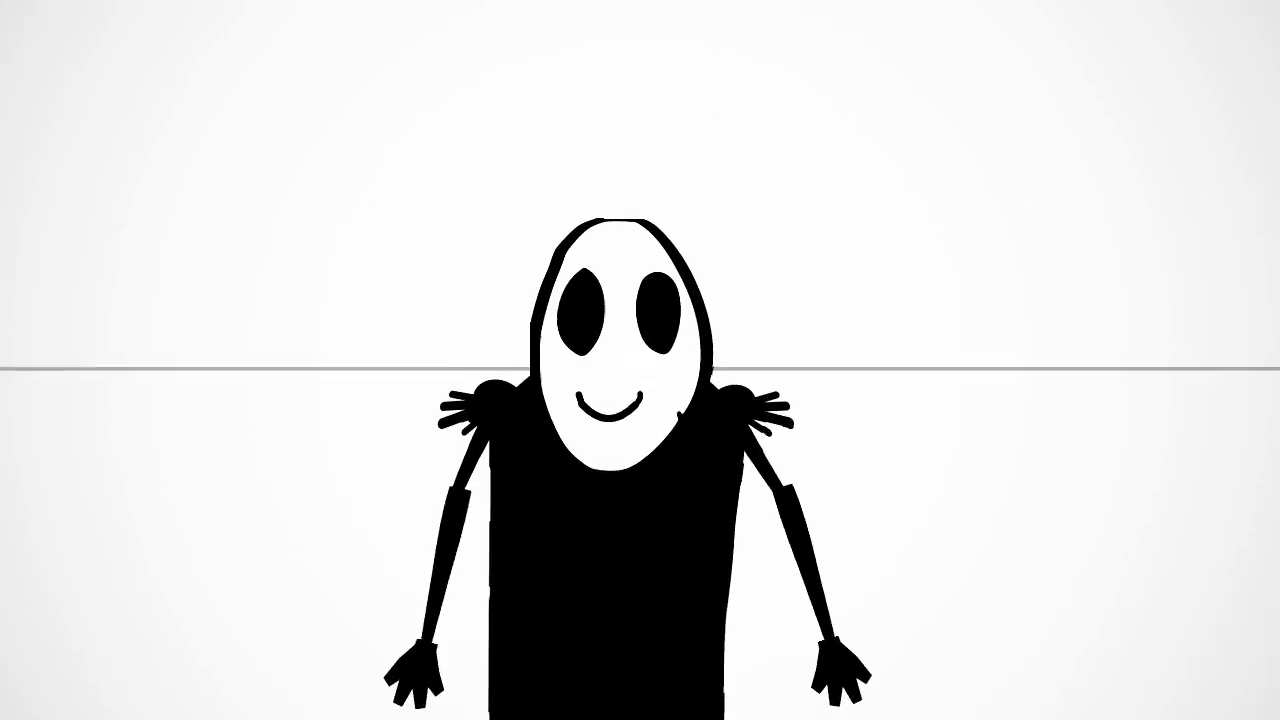
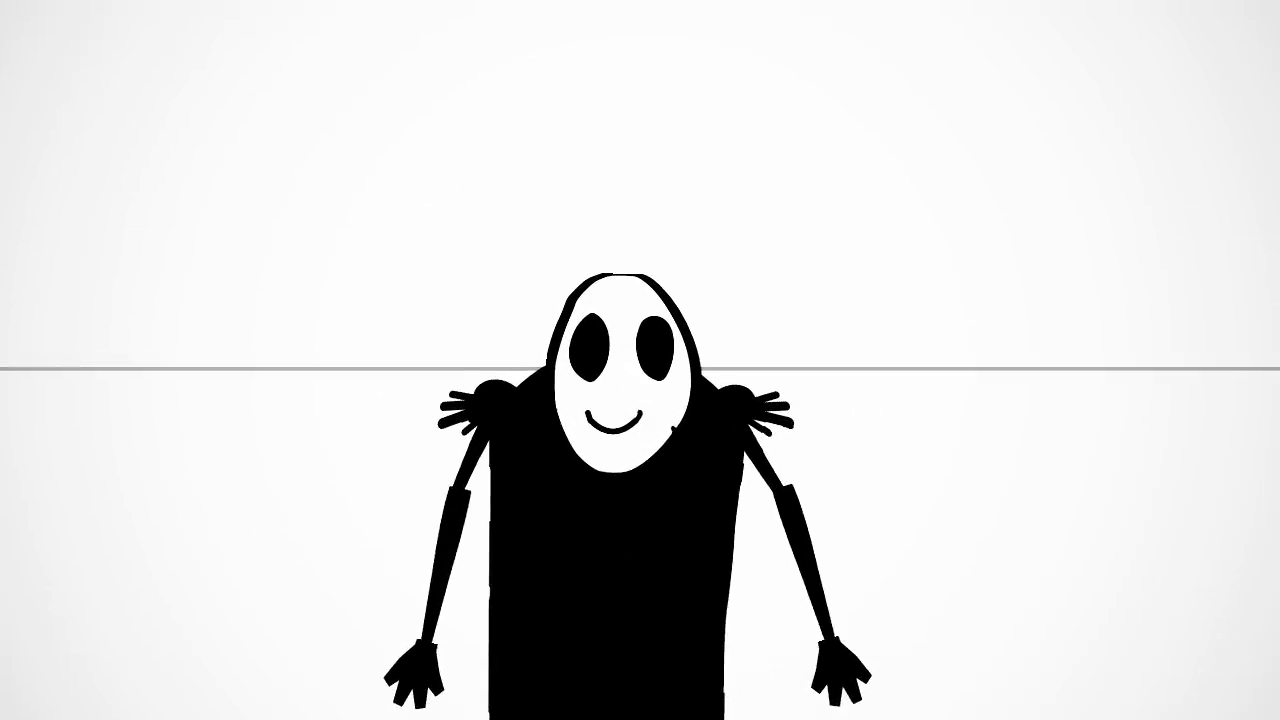
Голова на 46% крупнее фримановской, и масштабом это не чинится [skip render]
Замер оригинала одним прибором с нашим (маска — замкнутая светлая область
внутри тела, доли от роста):

    маска / рост      оригинал   у нас    расхождение
    высота            0.287      0.420    +46%
    ширина            0.202      0.272    +35%
    высота/ширина     1.425      1.546     +8%

ПОПРАВКА К ПРОШЛОМУ КОММИТУ. Там я объявил разницу в 26%. Неверно: наше
значение бралось из карты рига (0.363), оригинала — по видео (0.287). Разные
приборы и разные определения «роста» и «макушки». Одним прибором — 0.420.

ПОПЫТКА ПОЧИНИТЬ МАСШТАБОМ ПРОВАЛИЛАСЬ, и провал важнее самой попытки.
Умножение кости `head` на 0.60×0.56 (в скелете и в 18 позах со своим
масштабом) даёт РОВНО целевые доли: 0.203 × 0.289 против 0.202 × 0.287. Числа
взяты, фигура испорчена: плечи нарисованы под старую большую голову, верх
плаща в `torso.svg` — высокий округлый горб, и уменьшенная голова оказывается
ниже него. Персонаж читается как лицо в капюшоне.

Посадкой не лечится: свип `offset` головы 66/78/90/102/114 — во всех
вариантах горб плеч выше или вровень с макушкой. Правка нужна в две величины
сразу: голова меньше И линия плеч ниже, а второе — правка рисунка `torso.svg`,
а не трансформации кости.

Риг возвращён в исходное состояние: оставлять его с маленькой головой и
старыми плечами значит ухудшить то, что есть. Находка и цифры записаны в
`RULES.md`, чтобы следующий заход начинал с плаща, а не повторял мою попытку.

Claude-Session: https://claude.ai/code/session_01DMWtm8wXo5c1PeJUmxWLnF

Changed region(s): [[0.4062, 0.3056, 0.5625, 0.6417], [0.5, 0.6111, 0.5312, 0.6417], [0.4688, 0.6417, 0.5, 0.6722]]

diff --git a/examples/assets/characters/freeman_rig/RULES.md b/examples/assets/characters/freeman_rig/RULES.md
@@ -3,6 +3,39 @@
 Свод правил, выверенных в работе с пользователем по подлинным кадрам. При
 любой правке персонажа/камеры — сверяться с этим списком.
 
+## Голова крупнее фримановской, и одним масштабом это не чинится
+
+Замер оригинала (`tools/original_ref.py`, 35 кадров с целой фигурой) против
+нашего, ОДНИМ прибором — маска как замкнутая светлая область внутри тела,
+доли от роста фигуры:
+
+| маска / рост | оригинал | у нас | |
+|---|---|---|---|
+| высота | 0.287 | **0.420** | +46% |
+| ширина | 0.202 | **0.272** | +35% |
+| высота/ширина | 1.425 | 1.546 | +8% |
+
+> Сначала я объявил разницу в 26%. Это было неверно: наше значение бралось из
+> карты рига (0.363), а оригинала — по видео (0.287). Разные приборы, разные
+> определения «роста» и «макушки». Одним прибором — 0.420 против 0.287.
+
+**ПОПЫТКА ПОЧИНИТЬ МАСШТАБОМ ПРОВАЛИЛАСЬ, и провал поучителен.** Умножение
+кости `head` на 0.60×0.56 (в скелете и в 18 позах, задающих свой масштаб)
+даёт РОВНО целевые доли: 0.203 × 0.289 против фримановских 0.202 × 0.287.
+Числа взяты, фигура испорчена.
+
+Причина: **плечи нарисованы под старую большую голову**. Верх плаща в
+`torso.svg` — высокий округлый горб; пока голова была большой, она поднималась
+над ним. Уменьшенная голова оказывается НИЖЕ горба, и фигура читается как лицо
+в капюшоне. Посадкой (`offset` кости head) это не лечится: смещение вверх
+выносит маску за макушку плаща, вниз — топит её ещё глубже. Проверено
+свипом offset 66/78/90/102/114 — во всех вариантах горб плеч остаётся выше
+или вровень с макушкой.
+
+**Значит правка не в одну величину, а в две: голова меньше И линия плеч ниже.**
+Второе — правка рисунка `torso.svg`, а не трансформации кости. Пока она не
+сделана, уменьшать голову нельзя: получится хуже, чем есть.
+
 ## Позу СМОТРЯТ УСТОЯВШЕЙСЯ, а не сразу после команды
 
 Поза въезжает не мгновенно: движок доводит кости от предыдущего положения, и
